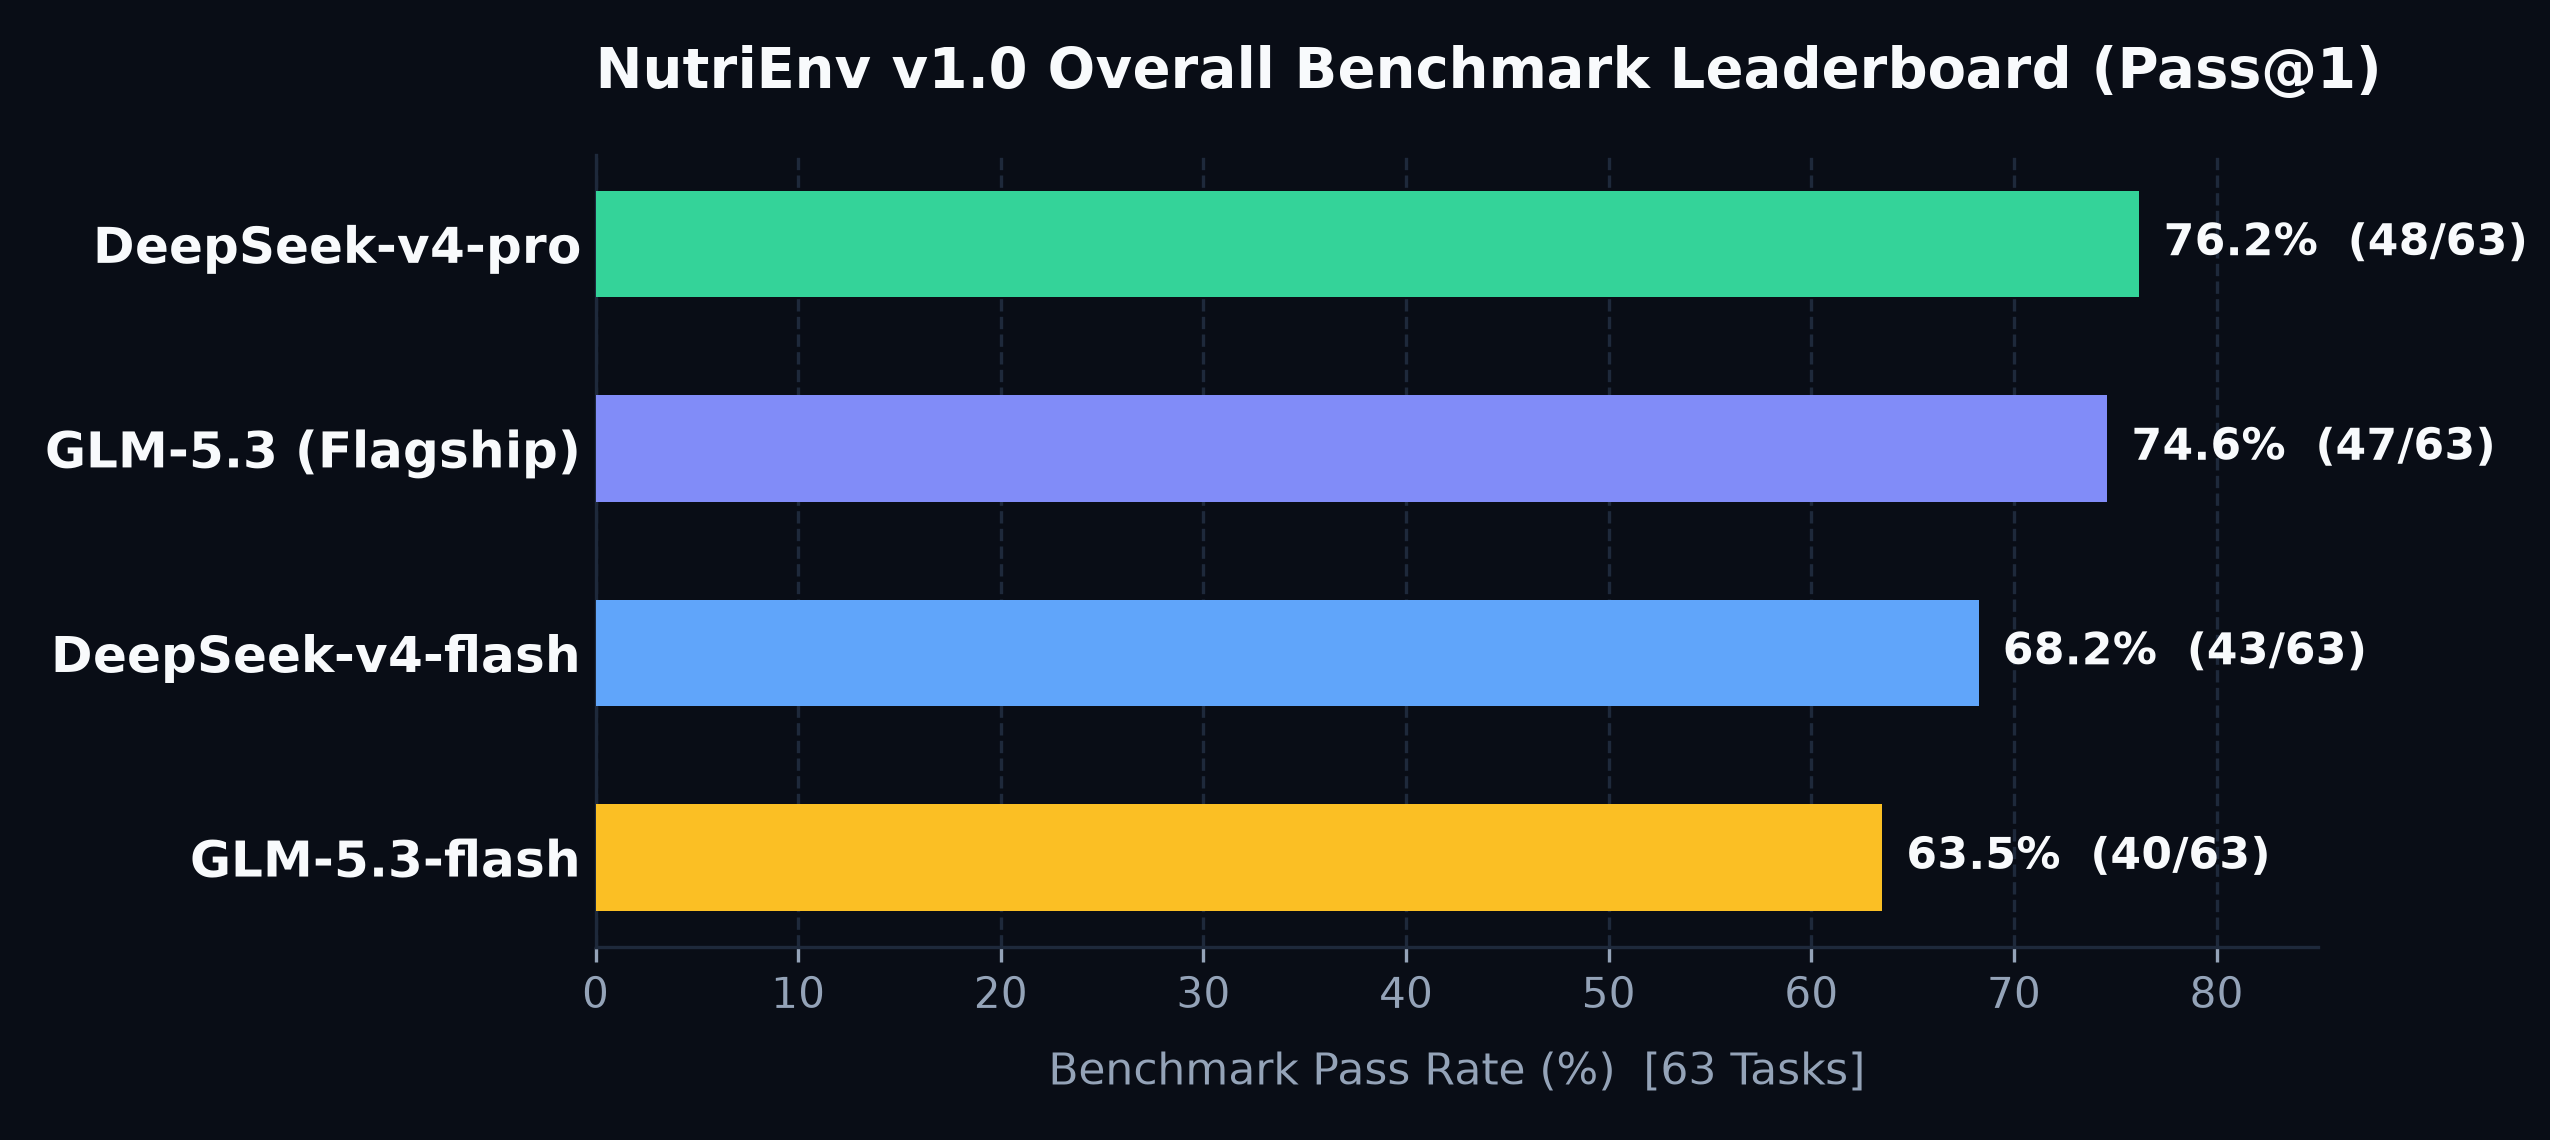
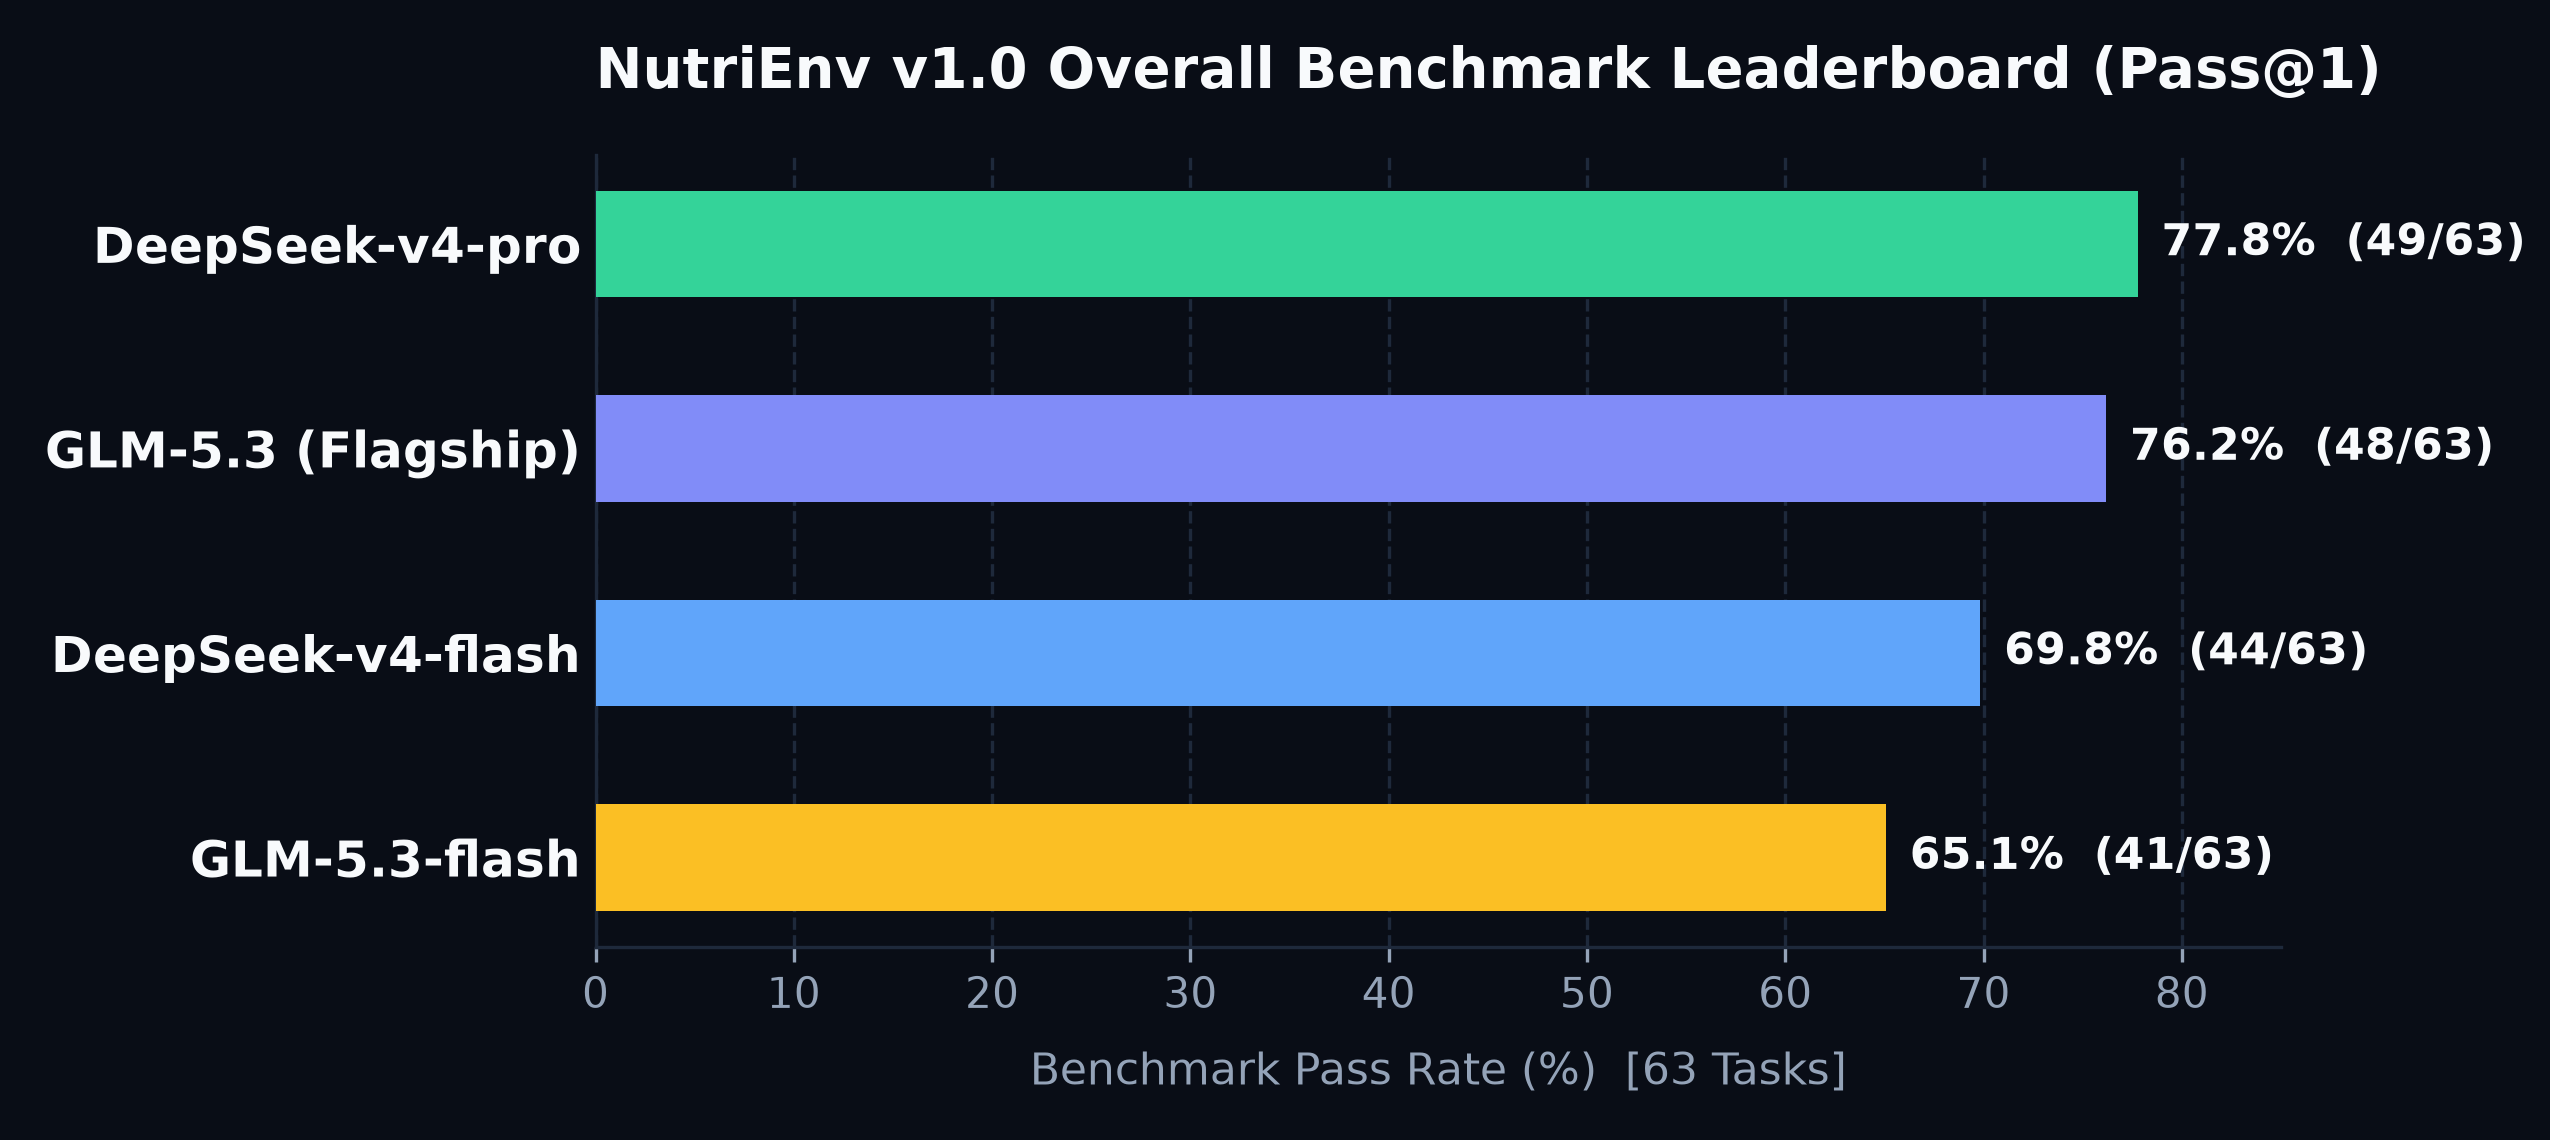
fix(benchmark): correct potato food_id to 2709388 (peeled) in adr29-dish-03 and refresh release metrics

diff --git a/reports/README.md b/reports/README.md
@@ -20,10 +20,10 @@ reports/
 
 | Model | Total Pass Rate | Solved / Total | Avg Steps | Avg Latency | Update (2) | Log (6) | Evaluate (8) | Recommend (11) | Composite (36) |
 |:---|:---:|:---:|:---:|:---:|:---:|:---:|:---:|:---:|:---:|
-| **DeepSeek-v4-pro** | **76.2%** | **48 / 63** | 12.9 | 167.5s | 2/2 (100%) | 4/6 (66.7%) | 6/8 (75.0%) | 9/11 (81.8%) | 27/36 (75.0%) |
-| **GLM-5.3 (Flagship)** | **74.6%** | **47 / 63** | 14.6 | 112.2s | 2/2 (100%) | 4/6 (66.7%) | 6/8 (75.0%) | 9/11 (81.8%) | 26/36 (72.2%) |
-| **DeepSeek-v4-flash** | **68.2%** | **43 / 63** | 11.0 | 248.9s | 2/2 (100%) | 5/6 (83.3%) | 7/8 (87.5%) | 8/11 (72.7%) | 21/36 (58.3%) |
-| **GLM-5.3-flash** | **63.5%** | **40 / 63** | 10.9 | 59.5s | 2/2 (100%) | 3/6 (50.0%) | 4/8 (50.0%) | 7/11 (63.6%) | 24/36 (66.7%) |
+| **DeepSeek-v4-pro** | **77.8%** | **49 / 63** | 12.9 | 167.5s | 2/2 (100%) | 5/6 (83.3%) | 6/8 (75.0%) | 9/11 (81.8%) | 27/36 (75.0%) |
+| **GLM-5.3 (Flagship)** | **76.2%** | **48 / 63** | 14.6 | 112.2s | 2/2 (100%) | 5/6 (83.3%) | 6/8 (75.0%) | 9/11 (81.8%) | 26/36 (72.2%) |
+| **DeepSeek-v4-flash** | **69.8%** | **44 / 63** | 11.0 | 248.9s | 2/2 (100%) | 6/6 (100.0%) | 7/8 (87.5%) | 8/11 (72.7%) | 21/36 (58.3%) |
+| **GLM-5.3-flash** | **65.1%** | **41 / 63** | 10.9 | 59.5s | 2/2 (100%) | 4/6 (66.7%) | 4/8 (50.0%) | 7/11 (63.6%) | 24/36 (66.7%) |
 
 > **Note**: All models in this benchmark suite were evaluated by invoking model endpoints provided by **Volcano Engine (火山引擎) Agent Plan**.
 Each benchmark JSON includes complete step-by-step tool actions, observations, latency, token usage, and final state validation tags.
